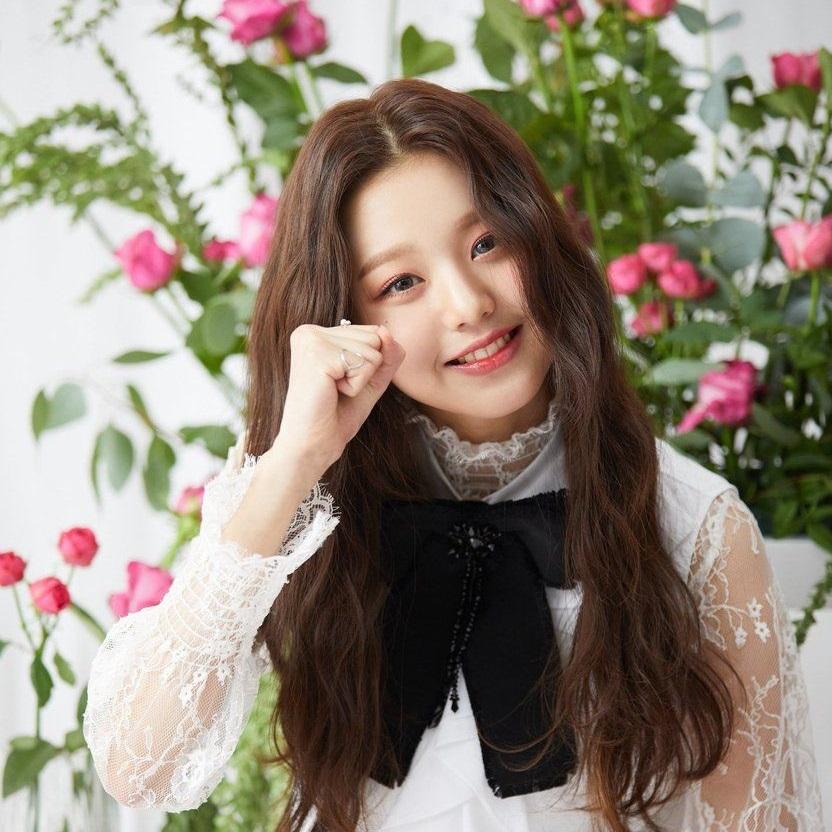
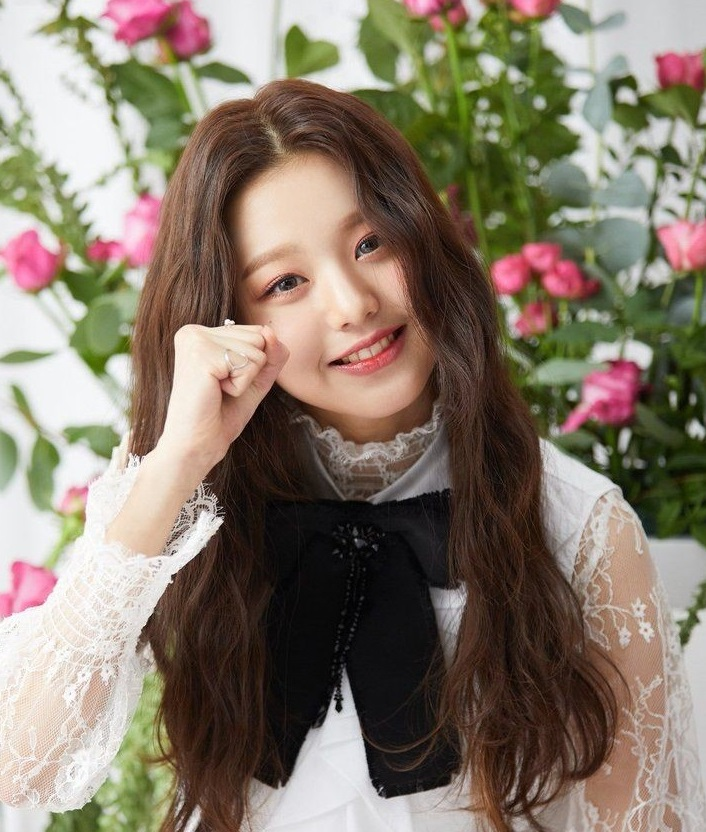
kanjut

diff --git a/assets/css/rose.css b/assets/css/rose.css
@@ -317,14 +317,18 @@ video {
     margin-top: 50px;
 
     object-fit: cover;
-    object-position: center right;
+    object-position: center middle;
 }
 
 .profil {
-    width: 30%;
+    width: 100px;
+    height: 100px;
     background: #dac52c;
     border-radius: 100%;
-    margin-top: 15%;
+    margin-top: 100px;
+
+    object-fit: cover;
+    object-position: center middle;
 }
 
 .play {
@@ -358,9 +362,9 @@ video {
 }
 
 .profil-pengantin-bottom {
-    width: 46%;
-    margin-top: -46%;
-    margin-right: 5%;
+    width: 150px;
+    margin-top: -151px;
+    margin-left: -16px;
 }
 
 

diff --git a/preview.html b/preview.html
@@ -80,7 +80,7 @@
 						<h2>Dewi & Putra</h2>
 						<hr>
 						<h5 class="judul-3">Sabtu, 26 Januari 2022</h5>
-						<div class="countdown d-flex justify-content-center" data-count="2021/4/3">
+						<div class="countdown d-flex justify-content-center" data-count="2022/4/3">
 
 						</div>
 					</div>
